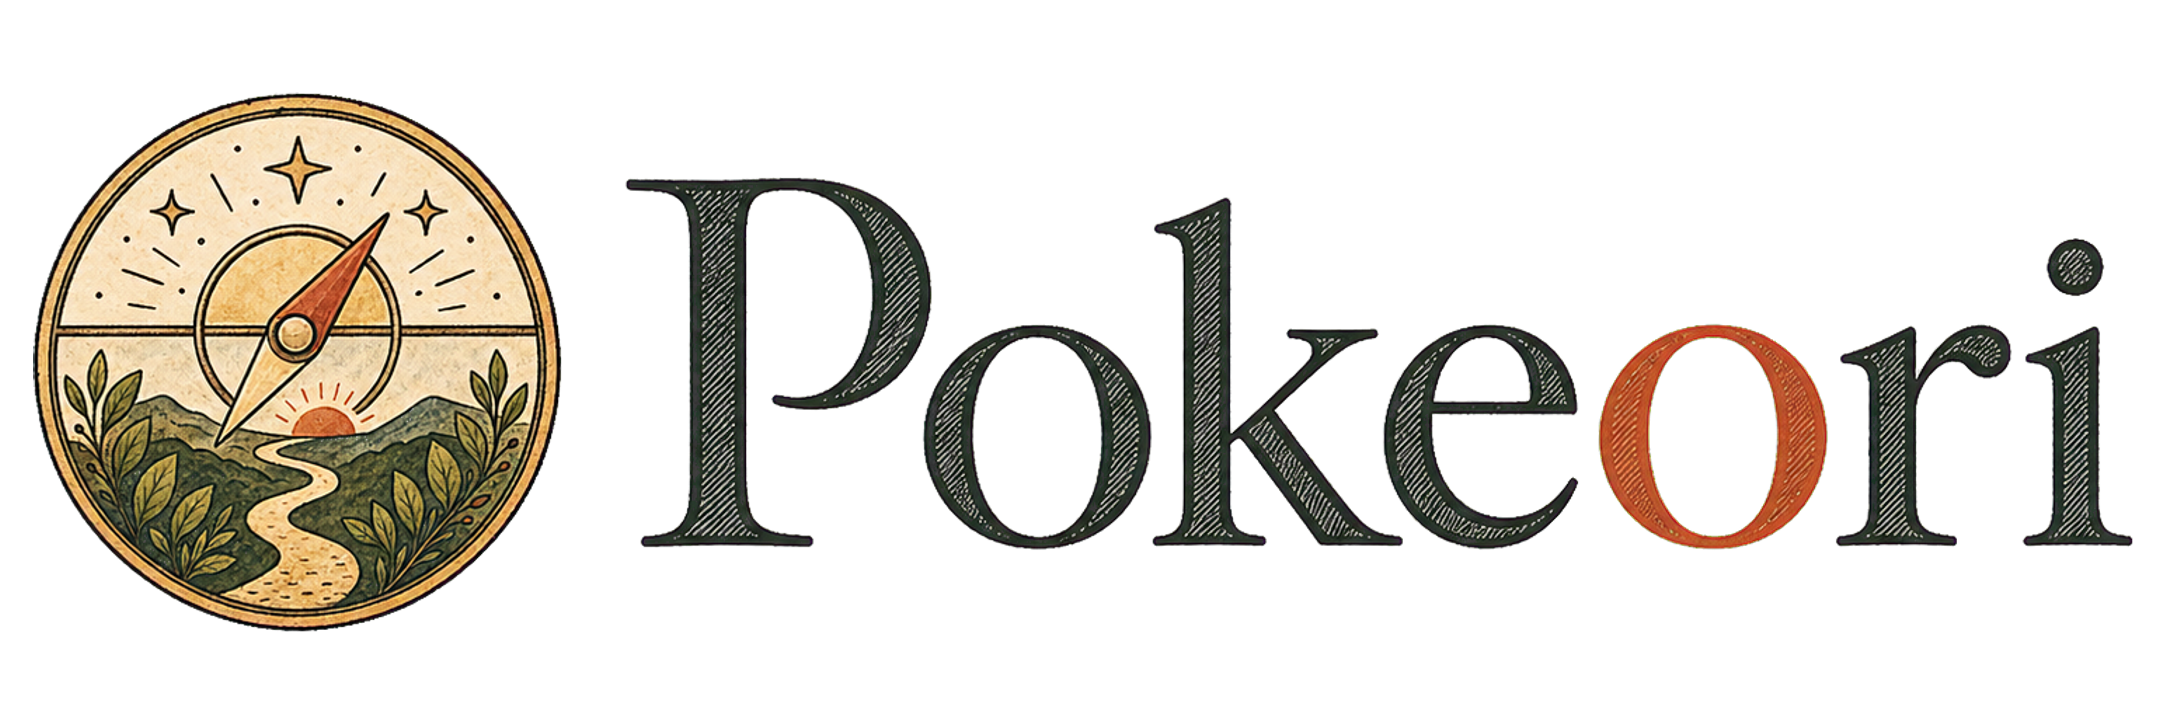
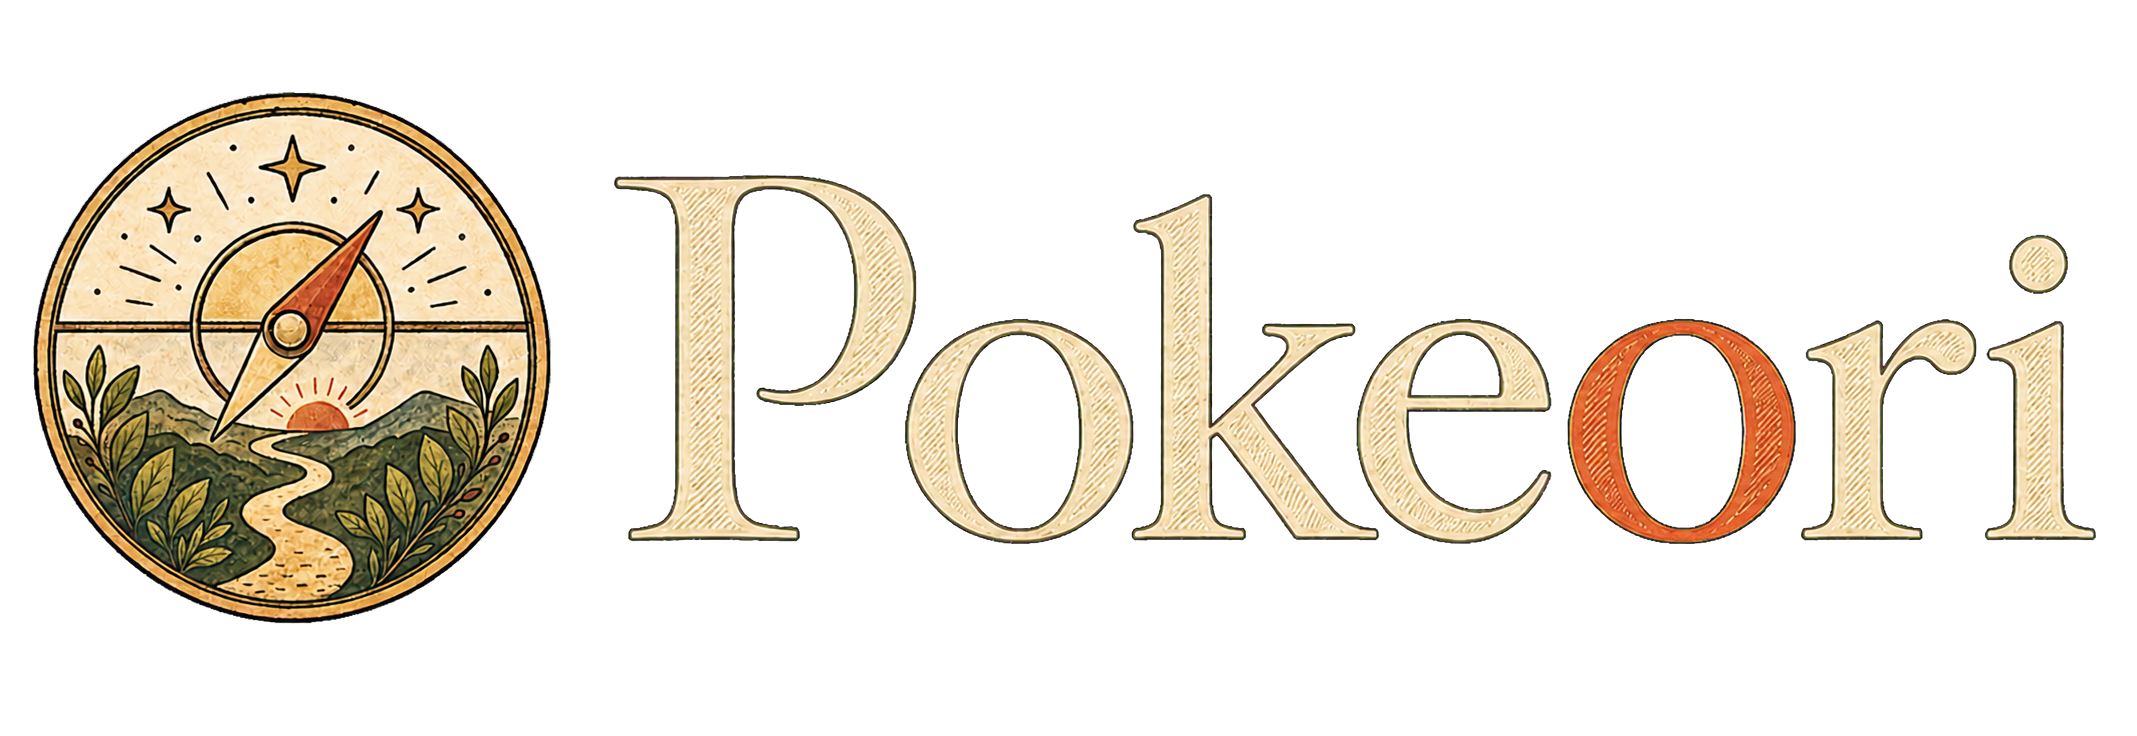
fix: align egg tile sprite and wordmark contrast (#5)

Changed region(s): [[0.278, 0.2124, 0.9883, 0.7586], [0.0, 0.1214, 0.278, 0.88]]

diff --git a/src/app/(frontend)/game/pokemon/_components/pokemon-list.tsx b/src/app/(frontend)/game/pokemon/_components/pokemon-list.tsx
@@ -449,7 +449,7 @@ export function PokemonList() {
       <Dialog>
         <DialogTrigger asChild>
           <Card className="game-focus-ring group relative aspect-square cursor-pointer border border-game-border bg-game-surface-raised p-1.5 transition-colors hover:border-game-moss/45 hover:bg-game-surface">
-            <Image src="/sprites/pokemon/home/egg.png" alt="Pokemon Egg" width={128} height={128} className="h-full w-full object-contain" />
+            <Image src="/sprites/items/egg.png" alt="Pokemon Egg" width={128} height={128} className="h-full w-full object-contain" />
           </Card>
         </DialogTrigger>
         <DialogContent className="max-w-sm border-game-border bg-game-surface-raised text-game-ink">